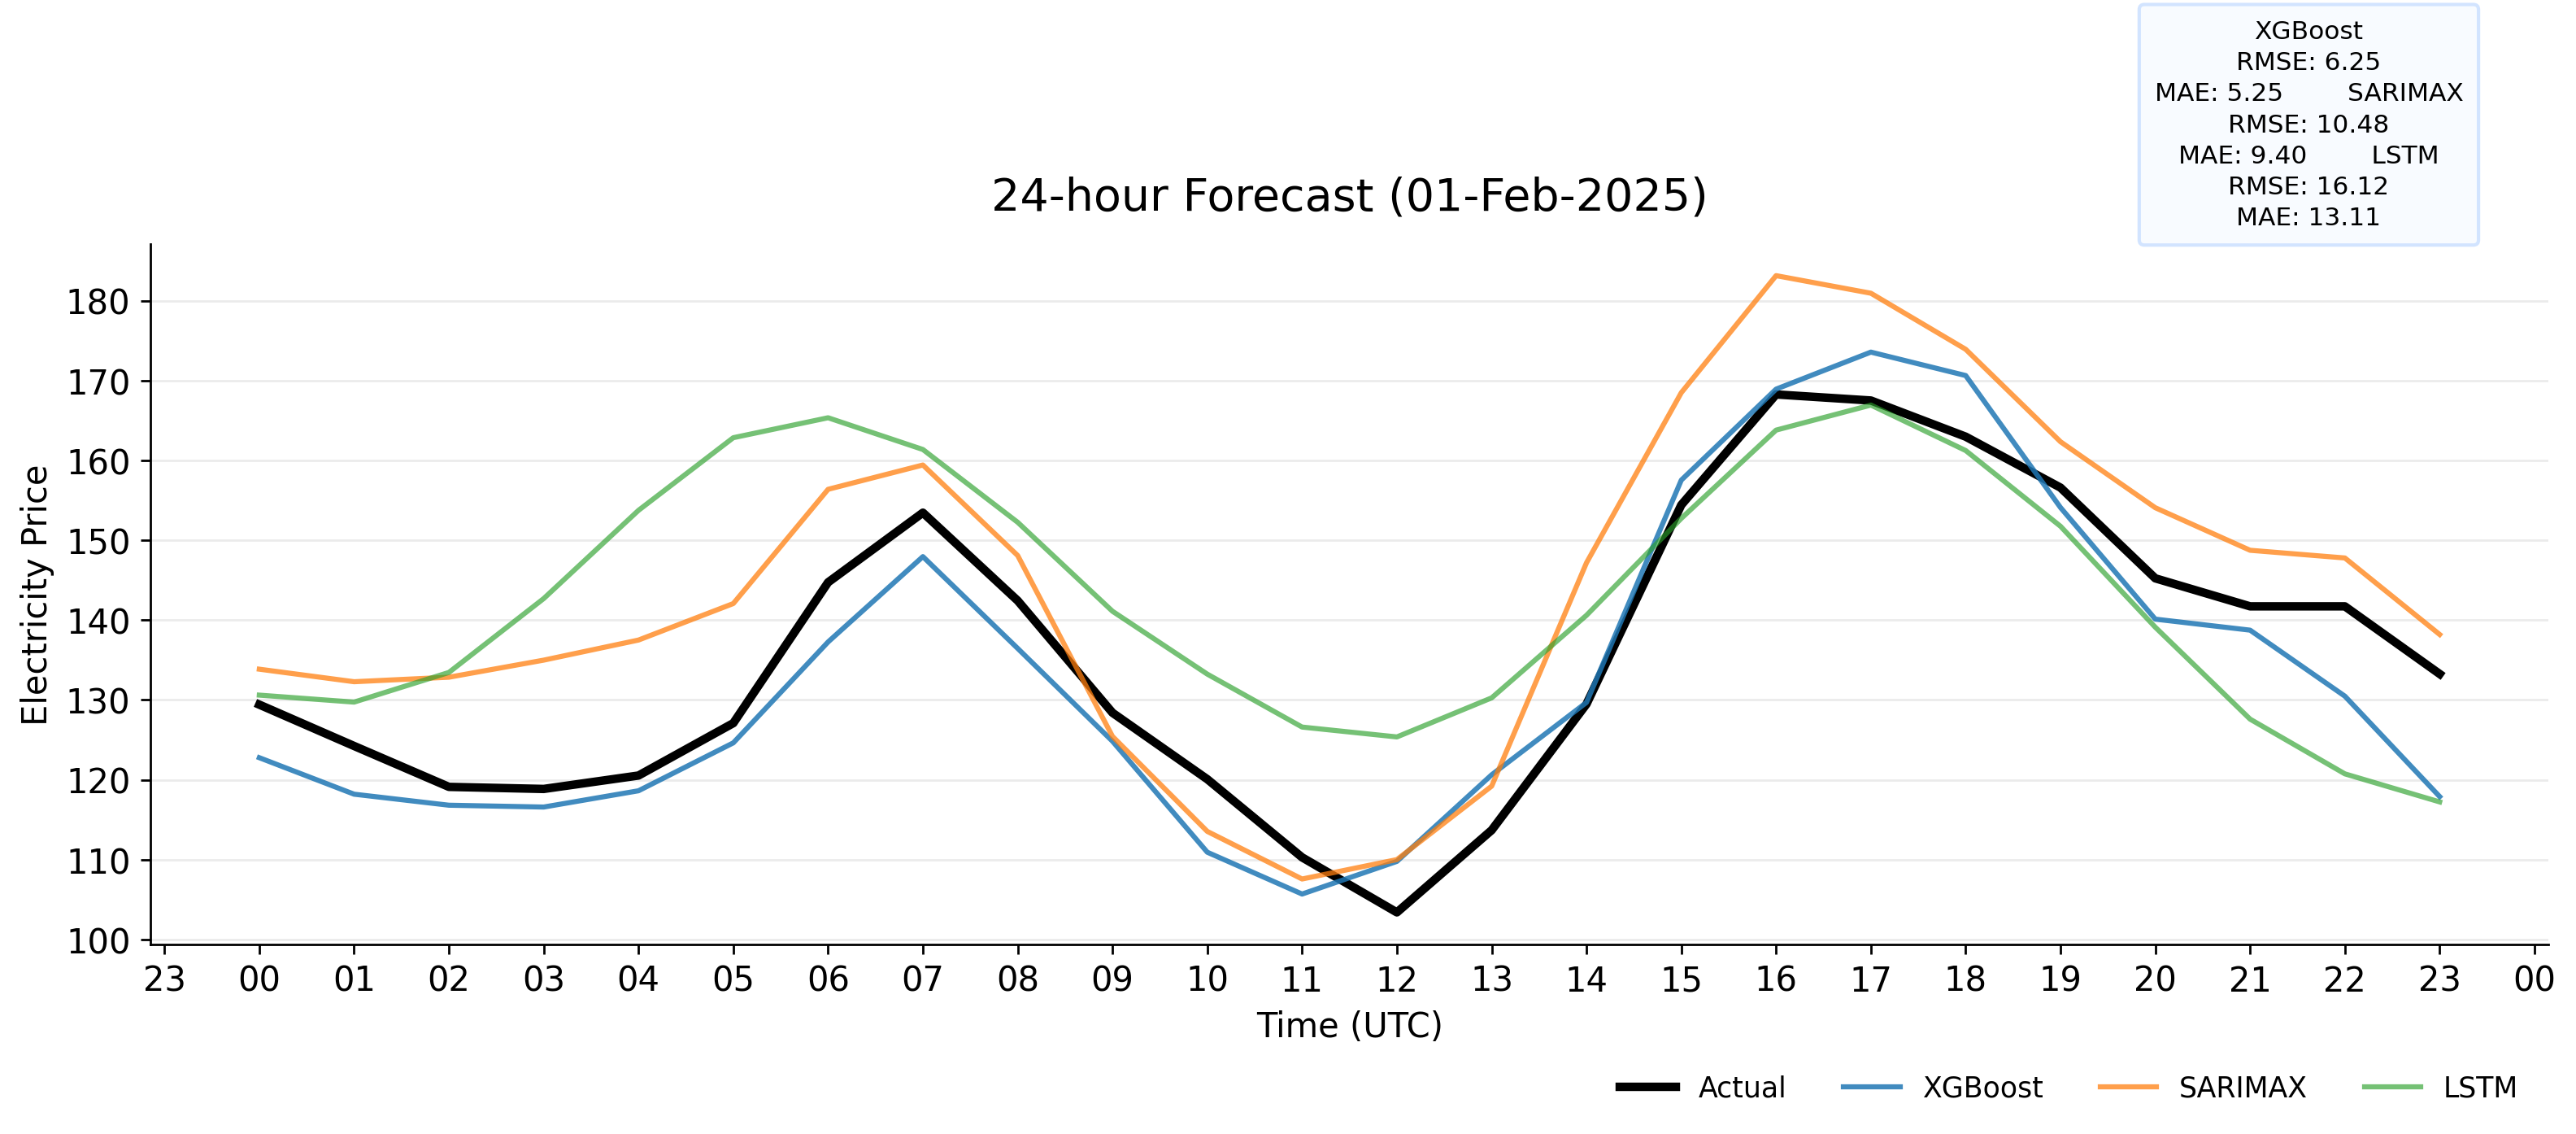
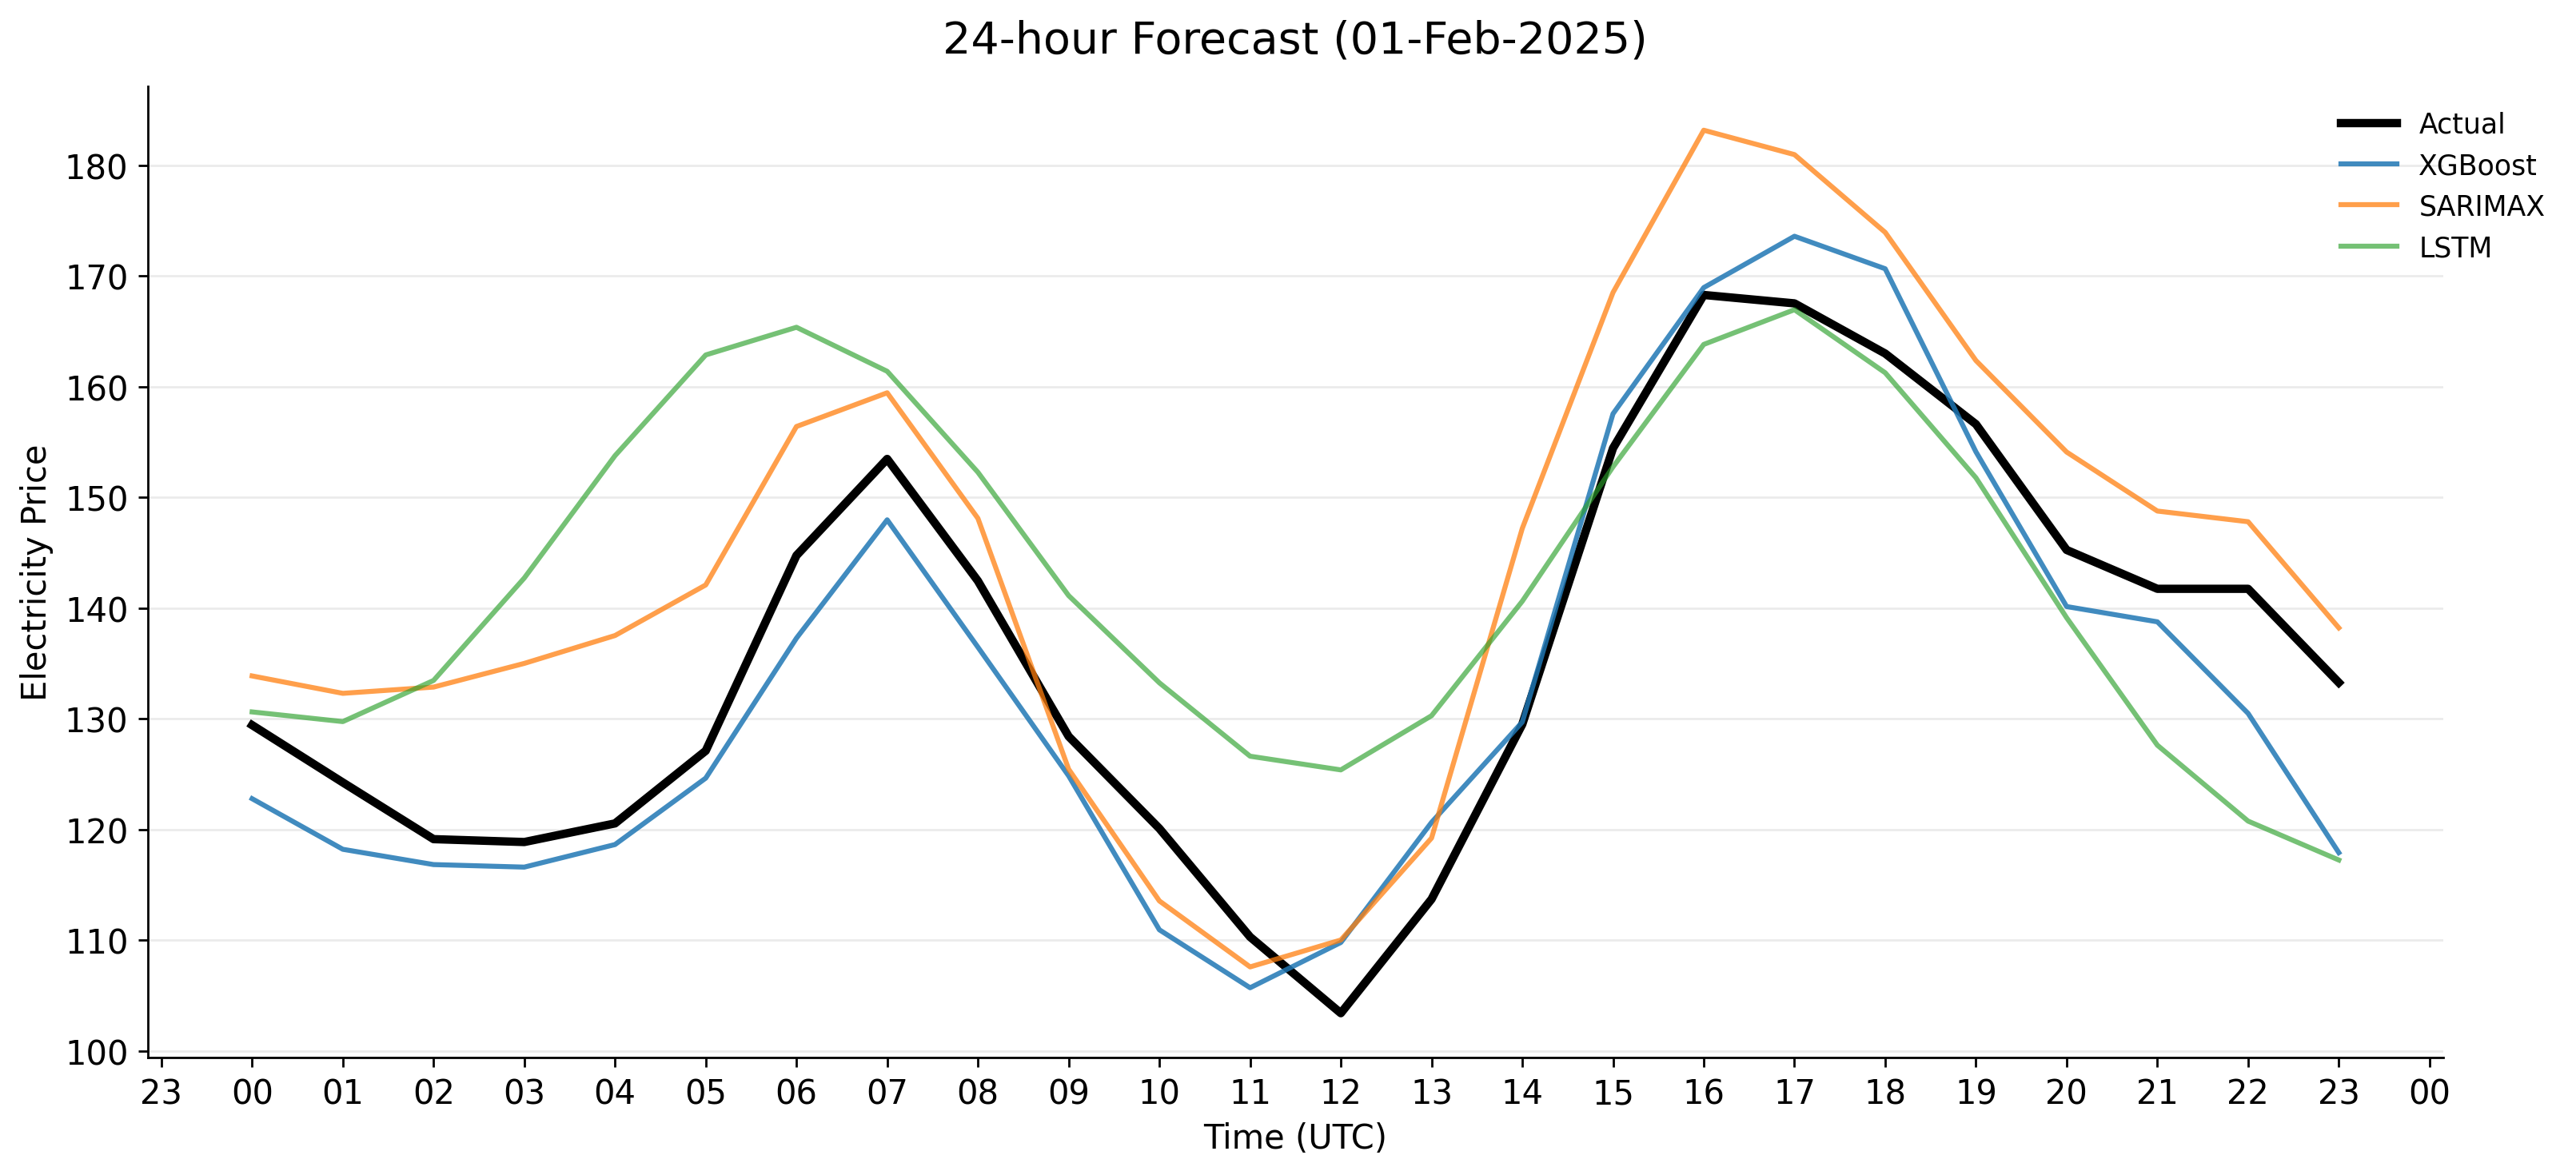
Improve dashboard visualization and README

diff --git a/scripts/all_models_comparison.py b/scripts/all_models_comparison.py
@@ -96,41 +96,12 @@ def main():
     fig, ax = plt.subplots(figsize=(13, 6))
 
   
-    ax.plot(
-        plot_df.index, plot_df["Actual"],
-        label="Actual",
-        color="black",
-        linewidth=3.0
-    )
-
-
+    ax.plot(plot_df.index, plot_df["Actual"],label="Actual",color="black",linewidth=3.0)
     ax.plot(plot_df.index, plot_df["XGBoost"], label="XGBoost", linewidth=1.8, alpha=0.85)
     ax.plot(plot_df.index, plot_df["SARIMAX"], label="SARIMAX", linewidth=1.8, alpha=0.75)
     ax.plot(plot_df.index, plot_df["LSTM"], label="LSTM", linewidth=1.8, alpha=0.65)
 
-    panel_text = (
-    f"XGBoost\nRMSE: {metrics['XGBoost']['rmse']:.2f}\nMAE: {metrics['XGBoost']['mae']:.2f}"
-    + "        " +
-    f"SARIMAX\nRMSE: {metrics['SARIMAX']['rmse']:.2f}\nMAE: {metrics['SARIMAX']['mae']:.2f}"
-    + "        " +
-    f"LSTM\nRMSE: {metrics['LSTM']['rmse']:.2f}\nMAE: {metrics['LSTM']['mae']:.2f}"
-)
-
-    ax.text(
-    0.9, 1.02, panel_text,
-    transform=ax.transAxes,
-    ha="center",
-    va="bottom",
-    fontsize=9,
-    linespacing=1.4,
-    bbox=dict(
-        boxstyle="round,pad=0.6,rounding_size=0.2",
-        facecolor="#f8fbff",     
-        edgecolor="#d0e3ff",
-        linewidth=1.2,
-        alpha=0.95
-    )
-)
+   
 
     ax.set_title("24-hour Forecast (01-Feb-2025)", fontsize=16, pad=12)
     ax.set_xlabel("Time (UTC)", fontsize=12)
@@ -151,8 +122,8 @@ def main():
     
     ax.legend(
         loc="upper center",
-        bbox_to_anchor=(0.8, -0.15),
-        ncol=4,
+        bbox_to_anchor=(1.0, 1.0),
+        ncol=1,
         frameon=False,
         fontsize=10
     )

diff --git a/app.py b/app.py
@@ -1,3 +1,5 @@
+import pandas as pd
+
 import streamlit as st
 from datetime import datetime
 from pathlib import Path
@@ -103,5 +105,12 @@ if plot_path.exists():
     st.image(str(plot_path), use_container_width=True)
 else:
     st.warning("Plot not found. Run forecasting script to generate it.")
+metrics_df = pd.DataFrame({
+    "Model": ["XGBoost", "SARIMAX", "LSTM"],
+    "RMSE": [6.25, 10.48, 16.12],
+    "MAE": [5.25, 9.40, 13.11]
+})
 
+st.subheader("Model Performance")
+st.dataframe(metrics_df)
 st.markdown("</div>", unsafe_allow_html=True)

diff --git a/README.md b/README.md
@@ -1,90 +1,93 @@
-# 📊 Time Series Forecasting Dashboard (Capstone Project)
+# Time Series Forecasting Dashboard
 
-## 🚀 Overview
-
-This project focuses on forecasting time series data using multiple models and presenting the results through an interactive Streamlit dashboard.
-
-The goal is to compare different approaches and provide an intuitive interface for exploring predictions.
+## Overview
+Production-style forecasting platform for analyzing and predicting time series data using classical statistical models and deep learning approaches. The project integrates automated preprocessing, model training, evaluation, and interactive Streamlit-based visualization.
 
 ---
 
-## 🧠 Models Used
-
-* **LSTM** (Deep Learning)
-* **SARIMAX** (Statistical Model)
-* **XGBoost** (Machine Learning)
-
----
-
-## 📈 Results
-
-Model performance is compared visually using a combined plot generated from all models.
+## Features
+- Time series preprocessing pipeline
+- Forecasting with SARIMAX, XGBoost, and LSTM
+- Interactive Streamlit dashboard
+- Model performance comparison
+- Visualization of historical and predicted trends
+- Modular project structure
 
 ---
 
-## 🖥️ Streamlit Dashboard
+## Tech Stack
+- Python
+- Pandas
+- NumPy
+- Scikit-learn
+- XGBoost
+- TensorFlow/Keras
+- Streamlit
+- Matplotlib / Plotly
 
-Run the dashboard locally:
+---
+
+## Project Structure
+```bash
+.
+├── artifacts/
+├── assets/
+├── data/
+├── notebook/
+├── pages/
+├── scripts/
+├── src/
+├── app.py
+├── requirements.txt
+└── README.md
+```
+
+## Models Used
+- SARIMAX
+- XGBoost
+- LSTM
+
+---
+
+## Results
+Add your evaluation metrics here.
+
+Example:
+
+| Model | RMSE | MAE |
+|---|---|---|
+| LSTM  | 16.12 | 13.11 |
+| SARIMAX | 10.48 | 9.4 |
+| XGBoost | 6.25 | 5.25 |
+
+
+---
+
+## Dashboard Preview
+
+### Main Dashboard
+![Dashboard](assets/screenshots/Dashboard-%20Home.png)
+
+### Forecast Visualization
+![Forecast](assets/screenshots/Dashboard-Forecast.png)
+
+### Drift Detection and Auto-Retraining 
+![Drift Detection and Auto-Retrain](assets/screenshots/Dashboard-drift%20detection%20and%20retrain.png)
+---
+
+## Installation
 
 ```bash
+git clone https://github.com/saadsiddiquemughal-svg/time-series-forecasting-dashboard.git
+cd time-series-forecasting-dashboard
+pip install -r requirements.txt
 streamlit run app.py
 ```
 
 ---
 
-## 🔄 Reproduce Results
-
-To regenerate model comparison plots:
-
-```bash
-python scripts/all_models_comparison.py
-```
-
----
-
-## ⚙️ Setup Instructions
-
-```bash
-git clone https://github.com/saadsiddiquemughal-svg/DS_capstone_project.git
-cd DS_capstone_project
-
-python -m venv .venv
-source .venv/bin/activate   # On Linux/Mac
-# venv\Scripts\activate     # On Windows
-
-pip install -r requirements.txt
-```
-
----
-
-## 📁 Project Structure
-
-```text
-.
-├── app.py
-├── artifacts/
-├── scripts/
-├── src/
-├── pages/
-├── notebooks/
-├── assets/
-├── requirements.txt
-└── README.md
-```
-
----
-
-## 📸 Dashboard Preview
-
-![Dashboard](assets/Dashboard.png)
-
----
-
-## 💡 Future Improvements
-
-* Deploy dashboard online
-* Add more models
-* Improve UI/UX
-
----
-
+## Future Improvements
+- Docker deployment
+- Automated retraining pipeline
+- Cloud deployment
+- Real-time forecasting integration